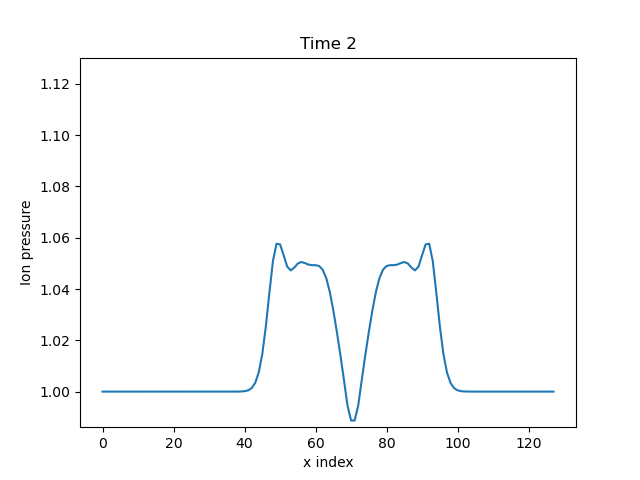
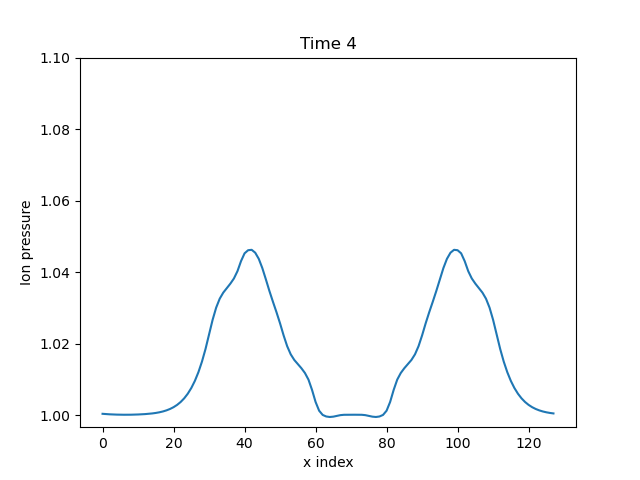
Update 1D fluid example
Include instructions on running, and update figures to new results.

diff --git a/docs/sphinx/examples.rst b/docs/sphinx/examples.rst
@@ -24,7 +24,26 @@ of energy between them, or heat conduction.
    :alt:
    :width: 60%
    
-   Evolution of pressure, starting from a top hat
+   Evolution of pressure, starting from a top hat. Input in ``examples/1D-te-ti``.
+
+To run this example:
+
+.. code-block:: bash
+
+   ./hermes-3 -d examples/1D-te-ti
+
+Which takes a few seconds to run on a single core. Then in the
+``examples/1D-te-ti`` directory run the analysis script
+
+.. code-block:: bash
+
+   python3 makeplot.py
+
+That should generate png files and an animated gif if ImageMagick is
+installed (the ``convert`` program). If an error like
+``ModuleNotFoundError: No module named 'boutdata'`` occurs, then
+install the ``boutdata`` package with ``python3 -m pip install
+boutdata``.
 
 The model components are ions (i) and electrons (e), and a component
 which uses the force on the electrons to calculate the parallel electric field,
